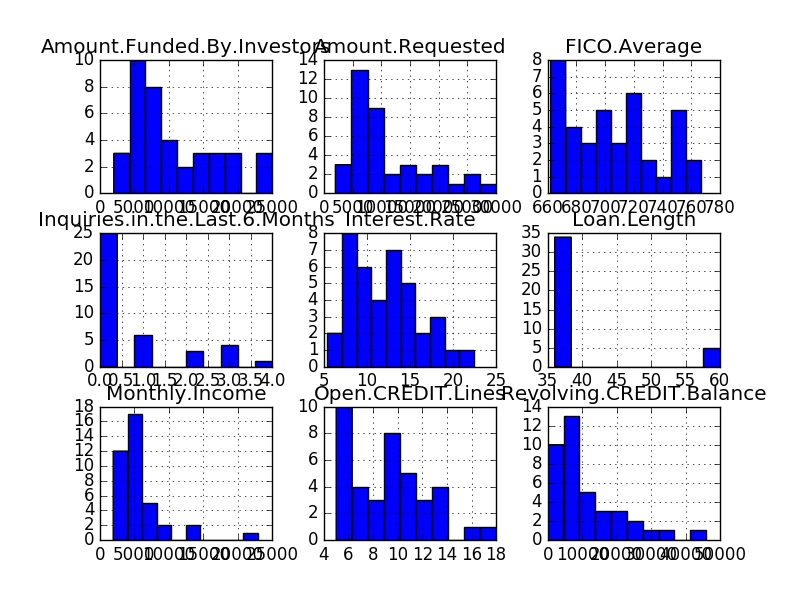
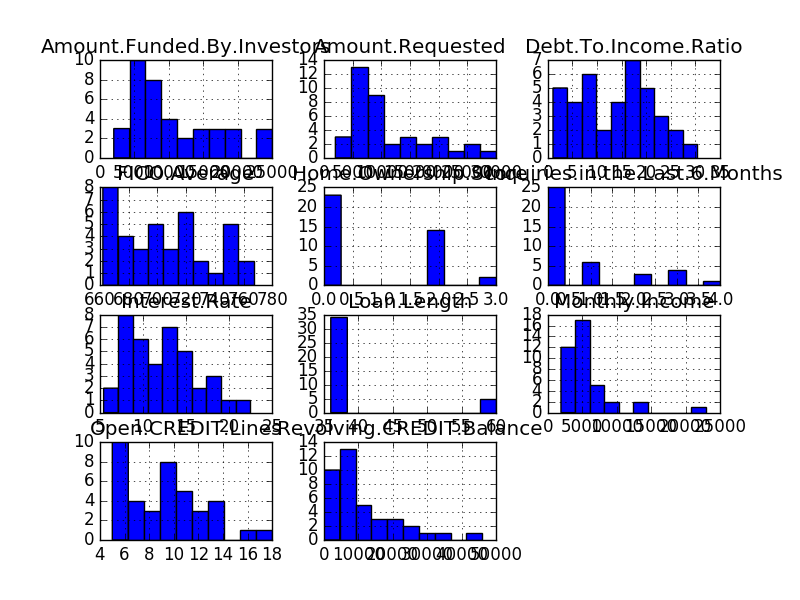
add more variables to scatter matrix

Changed region(s): [[0.0312, 0.06, 1.0, 0.96], [0.1562, 0.12, 0.2188, 0.15], [0.4375, 0.09, 0.4688, 0.12]]

diff --git a/linear_regression.py b/linear_regression.py
@@ -21,9 +21,21 @@ def splitSum(s):
     t = re.findall(pat, s)[0]
     return (int(t[0]) + int(t[1])) / 2
 
+def convert_own_to_num(s):
+    if s == 'RENT':
+        return 0
+    elif s == 'MORTGAGE':
+        return 2
+    elif s == 'OWN':
+        return 3
+    else:   # 'ANY'
+        return 1
+
 loansData['Interest.Rate'] = loansData['Interest.Rate'].apply(lambda s: float(s.rstrip('%')))
 loansData['Loan.Length'] = loansData['Loan.Length'].apply(lambda s: int(s.rstrip(' months')))
+loansData['Debt.To.Income.Ratio'] = loansData['Debt.To.Income.Ratio'].apply(lambda s: float(s.rstrip('%')))
 # loansData['FICO.Score'] = loansData['FICO.Range'].apply(lambda s: int(s.split('-')[0]))
+loansData['Home.Ownership.Score'] = loansData['Home.Ownership'].apply(convert_own_to_num)
 loansData['FICO.Average'] = loansData['FICO.Range'].apply(splitSum)
 #   apply and map both work, map more FP standard?
 # loansData['FICO.Average'] = loansData['FICO.Range'].map(splitSum)
@@ -75,7 +87,7 @@ plt.clf()
 # pd.scatter_matrix(loansData, alpha=0.05, figsize=(10,10))
 # diagonal='hist' by default, see help(pd.scatter_matrix)
 # but some docs describe diagonal='kde' as default
-pd.scatter_matrix(loansData, alpha=0.05, figsize=(10,10), diagonal='hist')
+pd.scatter_matrix(loansData, alpha=0.05, figsize=(11,11), diagonal='hist')
 plt.savefig(plotdir+'scatter_matrix.png')
 
 
